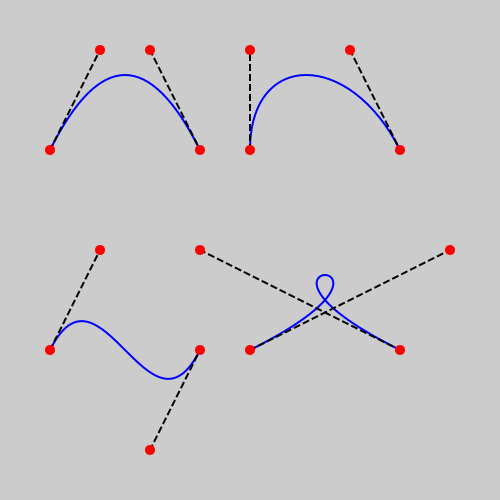
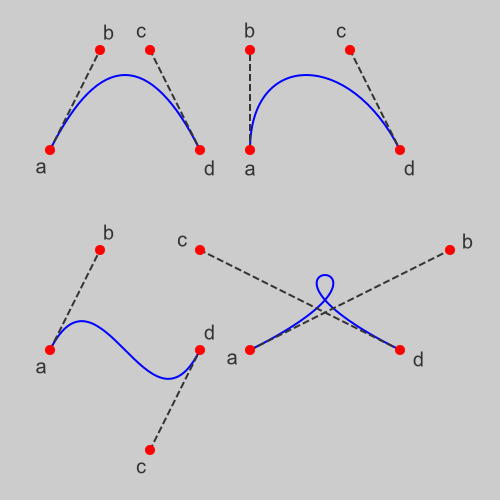
Update bezier tutorials

diff --git a/tutorial/shapes/bezier.py b/tutorial/shapes/bezier.py
@@ -3,12 +3,13 @@
 # Copyright (C) 2021, Martin McBride
 # License: MIT
 
-# Create some ellipses, arcs etc
+# Create some bezier curves
 
 from generativepy.drawing import make_image, setup
 from generativepy.color import Color
-from generativepy.geometry import Bezier, Polygon, Line, Circle
+from generativepy.geometry import Bezier, Polygon, Line, Circle, Text
 
+# Draw some Bezier curves
 def draw(ctx, pixel_width, pixel_height, frame_no, frame_count):
 
     setup(ctx, pixel_width, pixel_height, background=Color(0.8))
@@ -23,10 +24,11 @@ def draw(ctx, pixel_width, pixel_height, frame_no, frame_count):
 
 make_image("bezier-tutorial.png", draw, 500, 500)
 
-def show_bezier(ctx, a, b, c, d):
+# Draw a curve marking the control points
+def show_bezier_points(ctx, a, b, c, d):
     blue = Color('blue')
     red = Color('red')
-    grey = Color(0,7)
+    grey = Color(0.2)
     thickness = 2
     Bezier(ctx).of_abcd(a, b, c, d).stroke(blue, thickness)
     Line(ctx).of_start_end(a, b).stroke(grey, thickness, dash=[5])
@@ -36,21 +38,29 @@ def show_bezier(ctx, a, b, c, d):
     Circle(ctx).of_center_radius(c, 5).fill(red)
     Circle(ctx).of_center_radius(d, 5).fill(red)
 
+# Draw a curve marking the control points
+def show_bezier_labels(ctx, a, b, c, d):
+    grey = Color(0.2)
+    thickness = 2
+    show_bezier_points(ctx, a, b, c, d)
+    Text(ctx).of('a', a).size(20).align_center().align_middle().offset_towards(b, -20).fill(grey)
+    Text(ctx).of('b', b).size(20).align_center().align_middle().offset_towards(a, -20).fill(grey)
+    Text(ctx).of('c', c).size(20).align_center().align_middle().offset_towards(d, -20).fill(grey)
+    Text(ctx).of('d', d).size(20).align_center().align_middle().offset_towards(c, -20).fill(grey)
 
+# Draw the previous curves with their control points
 def draw2(ctx, pixel_width, pixel_height, frame_no, frame_count):
 
     setup(ctx, pixel_width, pixel_height, background=Color(0.8))
 
-    blue = Color('blue')
-    thickness = 2
-
-    show_bezier(ctx, (50, 150), (100, 50), (150, 50), (200, 150))
-    show_bezier(ctx, (250, 150), (250, 50), (350, 50), (400, 150))
-    show_bezier(ctx, (50, 350), (100, 250), (150, 450), (200, 350))
-    show_bezier(ctx, (250, 350), (450, 250), (200, 250), (400, 350))
+    show_bezier_labels(ctx, (50, 150), (100, 50), (150, 50), (200, 150))
+    show_bezier_labels(ctx, (250, 150), (250, 50), (350, 50), (400, 150))
+    show_bezier_labels(ctx, (50, 350), (100, 250), (150, 450), (200, 350))
+    show_bezier_labels(ctx, (250, 350), (450, 250), (200, 250), (400, 350))
 
 make_image("bezier-tutorial-points.png", draw2, 500, 500)
 
+## Draw a polygon
 def draw3(ctx, pixel_width, pixel_height, frame_no, frame_count):
 
     setup(ctx, pixel_width, pixel_height, background=Color(0.8))
@@ -62,3 +72,39 @@ def draw3(ctx, pixel_width, pixel_height, frame_no, frame_count):
     Polygon(ctx).of_points(points).fill(red).stroke(blue, thickness)
 
 make_image("bezier-tutorial-polygon.png", draw3, 500, 300)
+
+## Draw two smoothly joined points
+
+def draw4(ctx, pixel_width, pixel_height, frame_no, frame_count):
+
+    setup(ctx, pixel_width, pixel_height, background=Color(0.8))
+
+    blue = Color('blue')
+    grey = Color(0.2)
+    thickness = 2
+
+    a0 = (50, 200)
+    b0 = (100, 200)
+    c0 = (100, 50)
+    d0 = (200, 50)
+    a1 = (200, 50)
+    b1 = (300, 50)
+    c1 = (350, 220)
+    d1 = (450, 200)
+    points = [a0, (*b0, *c0, *d0), (*b1, *c1, *d1)]
+    Polygon(ctx).of_points(points).open().stroke(blue, thickness)
+
+    show_bezier_points(ctx, (50, 200), (100, 200), (100, 50), (200, 50))
+    show_bezier_points(ctx, (200, 50), (300, 50), (350, 220), (450, 200))
+
+    Text(ctx).of('a0', a0).size(20).align_center().align_middle().offset_towards(b0, -20).fill(grey)
+    Text(ctx).of('b0', b0).size(20).align_center().align_middle().offset_towards(a0, -20).fill(grey)
+    Text(ctx).of('c0', c0).size(20).align_center().align_middle().offset_towards(d0, -20).fill(grey)
+    Text(ctx).of('d0/a1', d0).size(20).align_center().align_middle().offset(0, -20).fill(grey)
+    Text(ctx).of('b1', b1).size(20).align_center().align_middle().offset_towards(a1, -20).fill(grey)
+    Text(ctx).of('c1', c1).size(20).align_center().align_middle().offset_towards(d1, -20).fill(grey)
+    Text(ctx).of('d1', d1).size(20).align_center().align_middle().offset_towards(c1, -20).fill(grey)
+
+
+make_image("bezier-tutorial-joined.png", draw4, 500, 250)
+
